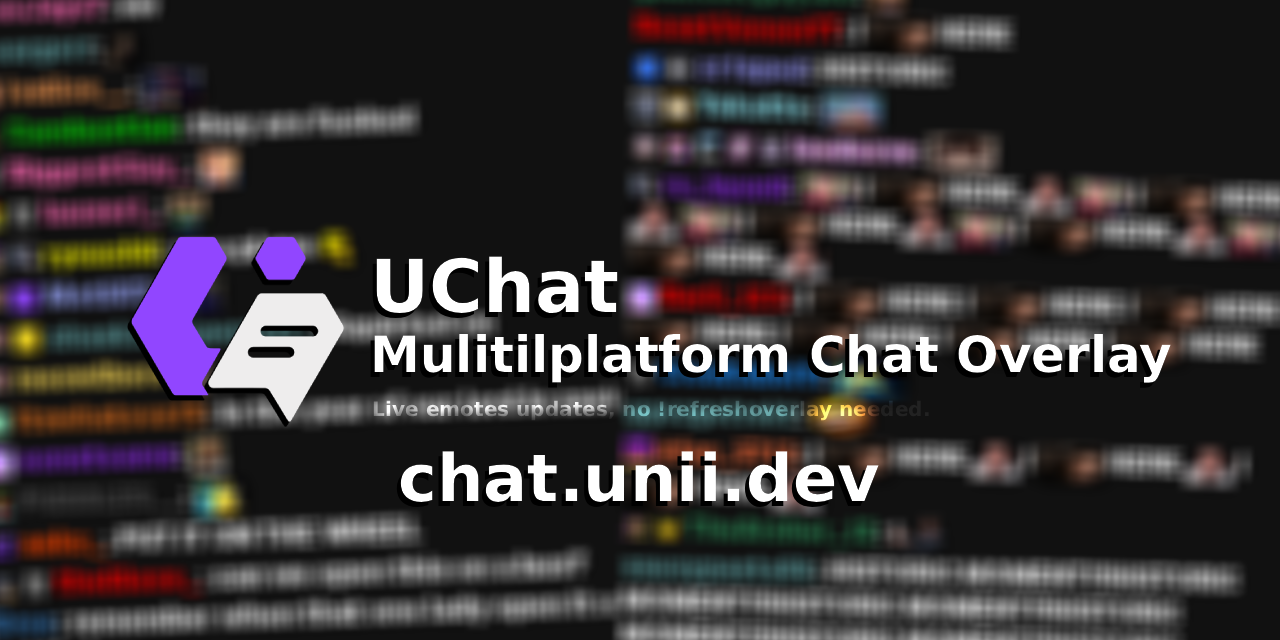
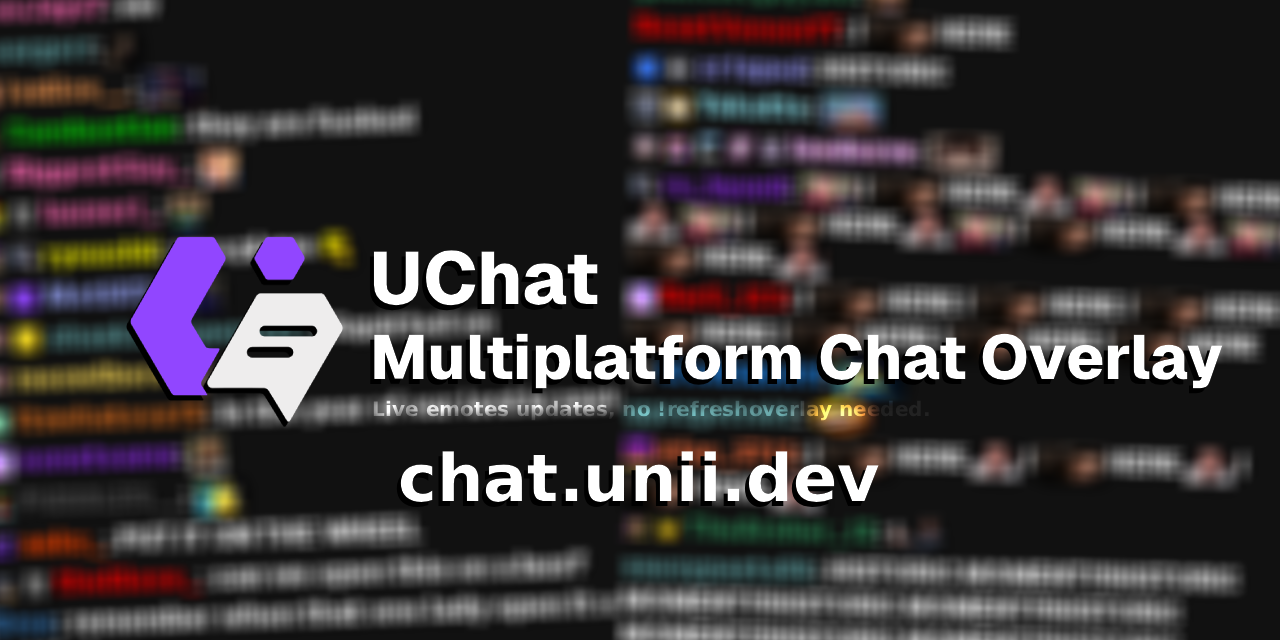
3.12.0 (FIX)
1. Fixed multiplatform
2. Fixed misspelling in the banner

Changed region(s): [[0.2812, 0.375, 0.9688, 0.625], [0.1562, 0.5312, 0.1875, 0.5938]]

diff --git a/app/src/components/ChatDisplay.svelte b/app/src/components/ChatDisplay.svelte
@@ -201,6 +201,8 @@
             (badge: Record<string, any>) => badge.owners.includes(username),
         ) as Record<string, any>;
 
+        if (!username || !message) return false;
+
         const passed = [
             Array.isArray(chatSettings["userBL"].value)
                 ? !chatSettings["userBL"].value.includes(
@@ -212,17 +214,21 @@
                       message?.toLowerCase().startsWith(prefix.toLowerCase()),
                   )
                 : true,
-            !chatSettings["bots"].value ? !user_badges?.["bot-badge"] : true,
+            !chatSettings["bots"].value && user_badges
+                ? !user_badges?.["bot-badge"]
+                : true,
             !chatSettings["bots"].value
                 ? !globals.custom_bots.includes(username)
                 : true,
             !chatSettings["bots"].value
                 ? !FFZBadges.find((badge: Record<string, any>) => badge.id == 2)
                 : true,
-            !chatSettings["bots"].value
+            !chatSettings["bots"].value && tags
                 ? $badges["FFZ"]["user"]["user"][tags["user-id"] ?? ""] != 2
                 : true,
-            !chatSettings["redeem"].value ? !tags?.["custom-reward-id"] : true,
+            !chatSettings["redeem"].value && tags
+                ? !tags?.["custom-reward-id"]
+                : true,
         ];
 
         return passed.every(Boolean);
@@ -251,43 +257,54 @@
 
     let filteredMessages = $derived(
         chatMessages
-            .filter(
-                (msg) =>
-                    chatSettings &&
-                    validateMessage(
-                        msg.tags?.username,
-                        msg.message,
-                        msg.tags?.badges,
-                        msg.tags,
-                    ),
-            )
             .map((msg) => {
-                const username = (
+                const rawUsername =
                     msg?.tags?.username ??
                     msg?.sender?.slug ??
-                    ""
+                    msg?.author?.name ??
+                    "";
+                const username = (
+                    typeof rawUsername == "string" ? rawUsername : ""
                 )
                     .trim()
                     .toLowerCase();
+
+                const rawMessage =
+                    msg?.message?.text ?? msg?.message ?? msg?.content ?? "";
+                const message = (
+                    typeof rawMessage == "string" ? rawMessage : ""
+                )
+                    .trim()
+                    .toLowerCase();
+
+                const badges = msg?.tags?.badges ?? {};
+                const tags = msg?.tags ?? {};
 
                 const displayName = String(
                     msg?.tags?.["display-name"] ?? msg?.sender?.username ?? "",
                 );
 
-                return {
-                    id: msg?.tags?.id ?? msg?.id ?? generateUUID(), // THIS MAKES SURE MESSAGES WILL NOT MERGE
-                    room_id:
-                        msg?.tags?.["source-room-id"] ??
-                        msg?.["chatroom_id"] ??
-                        globals["channels"]["TWITCH"]["ID"],
-                    ...msg,
-                    formattedUser: formatUsername(
-                        username,
-                        displayName,
-                        msg["service"],
-                    ),
-                };
-            }) as any,
+                const valid =
+                    chatSettings &&
+                    validateMessage(username, message, badges, tags);
+
+                if (valid) {
+                    return {
+                        id: msg?.tags?.id ?? msg?.id ?? generateUUID(), // THIS MAKES SURE MESSAGES WILL NOT MERGE
+                        room_id:
+                            msg?.tags?.["source-room-id"] ??
+                            msg?.["chatroom_id"] ??
+                            globals["channels"]["TWITCH"]["ID"],
+                        ...msg,
+                        formattedUser: formatUsername(
+                            username,
+                            displayName,
+                            msg["service"],
+                        ),
+                    };
+                }
+            })
+            .filter(Boolean) as any,
     );
 
     $effect(() => {
